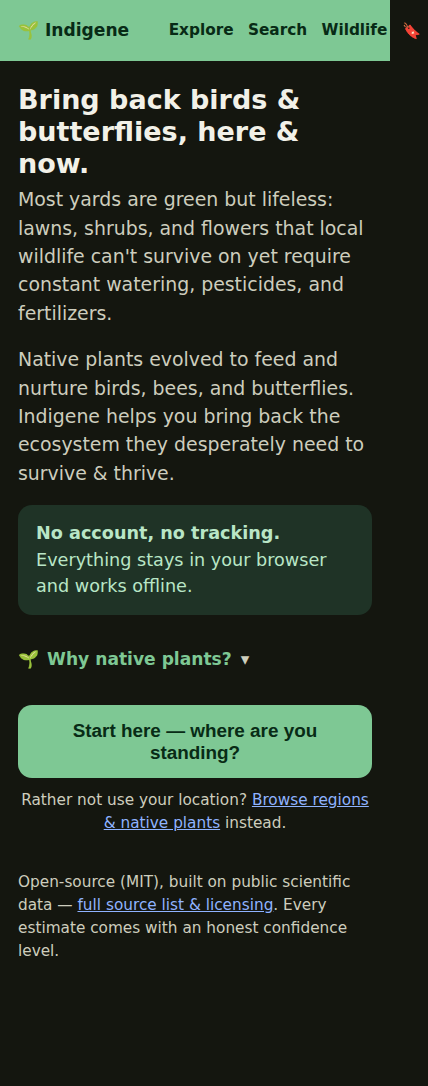
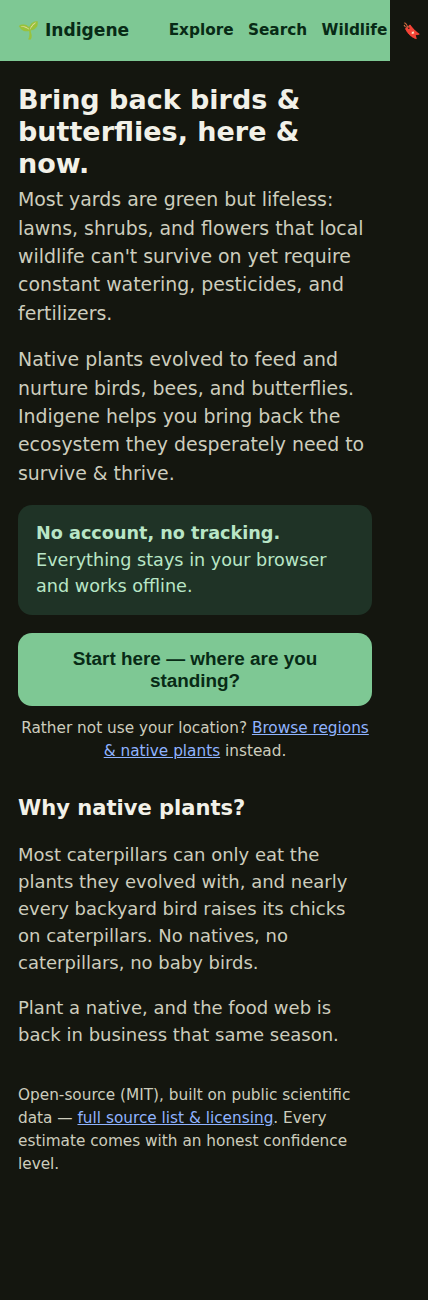
Un-drawer 'Why native plants?' on the homepage
Replace the click-to-reveal aside with a plainly visible section
below the Start button and browse link — the pitch for anyone not
yet convinced shouldn't hide behind a tap. The whyThis drawers in
the flow steps are untouched for now.

Claude-Session: https://claude.ai/code/session_011mxUJAVfmCMooYbDVRweVU

diff --git a/app/src/steps/welcome.ts b/app/src/steps/welcome.ts
@@ -1,7 +1,6 @@
 import { el, clear } from "../ui";
 import { navigate, resetDraft } from "../state";
 import { listSpots } from "../db";
-import { whyThis } from "../components/learn";
 import { DATA_SOURCES_URL } from "../lib/plain";
 
 export async function renderWelcome(main: HTMLElement): Promise<void> {
@@ -20,10 +19,6 @@ export async function renderWelcome(main: HTMLElement): Promise<void> {
       el("strong", {}, "No account, no tracking. "),
       "Everything stays in your browser and works offline.",
     ]),
-    whyThis("Why native plants?", [
-      "Most caterpillars can only eat the plants they evolved with, and nearly every backyard bird raises its chicks on caterpillars. No natives, no caterpillars, no baby birds. ",
-      "Plant a native, and the food web is back in business that same season.",
-    ]),
     el("button", {
       class: "btn btn-primary btn-block",
       onClick: () => {
@@ -38,6 +33,11 @@ export async function renderWelcome(main: HTMLElement): Promise<void> {
       el("a", { href: "#/browse" }, "Browse regions & native plants"),
       " instead.",
     ]),
+
+    // The pitch for anyone not yet convinced — in plain sight, not a drawer.
+    el("h3", { style: "margin-top:1.8rem" }, "Why native plants?"),
+    el("p", {}, "Most caterpillars can only eat the plants they evolved with, and nearly every backyard bird raises its chicks on caterpillars. No natives, no caterpillars, no baby birds."),
+    el("p", {}, "Plant a native, and the food web is back in business that same season."),
 
     el("div", { style: spots.length ? "margin-top:1.5rem" : "display:none" }, [
       el("h3", {}, "Your saved spots"),
